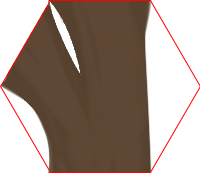
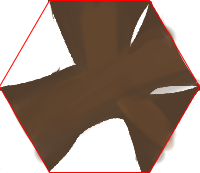
Add more tile sprite

diff --git a/Assets/Scripts/Player.cs b/Assets/Scripts/Player.cs
@@ -142,8 +142,14 @@ namespace GGJ23M
                 case 3:
                     tileResult = ThreeConnected(_0, _1, _2, _3, _4, _5);
                     break;
-                default:
+                case 4:
                     tileResult = FourConnected(_0, _1, _2, _3, _4, _5);
+                    break;
+                case 5:
+                    tileResult = FiveConnected(_0, _1, _2, _3, _4, _5);
+                    break;
+                case 6:
+                    tileResult = SixConnected(_0, _1, _2, _3, _4, _5);
                     break;
             }
 
@@ -179,7 +185,8 @@ namespace GGJ23M
 
             if (_0 && _1)
             {
-                
+                tileID = 17;
+                tileAngle = 1;
             }
             else if (_0 && _2)
             {
@@ -198,12 +205,14 @@ namespace GGJ23M
             }
             else if (_0 && _5)
             {
-
+                tileID = 17;
+                tileAngle = 0;
             }
 
             else if(_1 && _2)
             {
-
+                tileID = 17;
+                tileAngle = 2;
             }
             else if(_1 && _3)
             {
@@ -223,7 +232,8 @@ namespace GGJ23M
 
             else if(_2 && _3)
             {
-
+                tileID = 17;
+                tileAngle = 3;
             }
             else if(_2 && _4)
             {
@@ -238,11 +248,18 @@ namespace GGJ23M
 
             else if(_3 && _4)
             {
-
+                tileID = 17;
+                tileAngle = 4;
             }
             else if(_3 && _5)
             {
                 tileID = 4;
+                tileAngle = 5;
+            }
+
+            else if(_4 && _5)
+            {
+                tileID = 17;
                 tileAngle = 5;
             }
             Debug.Log(tileID);
@@ -413,6 +430,52 @@ namespace GGJ23M
                 tileAngle = 4;
             }
 
+            else if(_1 && _0 && _5 && _3)
+            {
+                tileID = 16;
+                tileAngle = 1;
+            }
+            else if(_2 && _1 && _0 && _4)
+            {
+                tileID = 16;
+                tileAngle = 2;
+            }
+            else if(_3 && _2 && _1 && _5)
+            {
+                tileID = 16;
+                tileAngle = 3;
+            }
+            else if(_4 && _3 && _2 && _0)
+            {
+                tileID = 16;
+                tileAngle = 4;
+            }
+            else if(_5 && _4 && _3 && _1)
+            {
+                tileID = 16;
+                tileAngle = 5;
+            }
+            else if(_0 && _5 && _4 && _2)
+            {
+                tileID = 16;
+                tileAngle = 0;
+            }
+
+            return new Vector2Int(tileID, tileAngle);
+        }
+
+        Vector2Int FiveConnected(bool _0, bool _1, bool _2, bool _3, bool _4, bool _5)
+        {
+            int tileID = 18;
+            int tileAngle = 0;
+
+            return new Vector2Int(tileID, tileAngle);
+        }
+
+        Vector2Int SixConnected(bool _0, bool _1, bool _2, bool _3, bool _4, bool _5)
+        {
+            int tileID = 18;
+            int tileAngle = 0;
 
             return new Vector2Int(tileID, tileAngle);
         }
